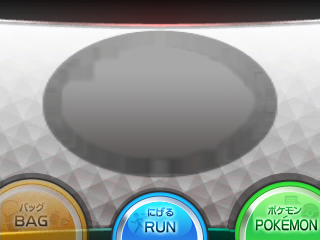
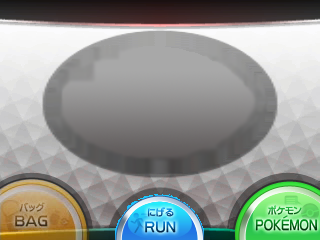
run button

Changed region(s): [[0.4062, 0.7875, 0.6562, 1.0], [0.3438, 0.8458, 0.4062, 1.0]]

diff --git a/src/PBO/Battle/NDS/ControlPanel/ControlPanel.xaml b/src/PBO/Battle/NDS/ControlPanel/ControlPanel.xaml
@@ -22,8 +22,8 @@
                     <ImageBrush ImageSource="/PBO;component/images/ControlPanel/MainMenu.png"/>
                 </Canvas.Background>
                 <b:GameButton Click="Fight_Click" Padding="2,1" Shape="M113,0 A113,70 180 1 1 113,140 A113,70 180 1 1 113,0 Z" Image="/PBO;component/images/ControlPanel/Fight.png" Width="226" Height="140" Canvas.Left="47" Canvas.Top="34"/>
-                <b:GameButton Click="Pokemons_Click" Shape="M1,63 A58,58 120 0 1 90,11 V63 Z" Image="/PBO;component/images/ControlPanel/Pokemon.png" Padding="1,1,0,0" Width="90" Height="63" Canvas.Bottom="0" Canvas.Right="0"/>
-                <Button Content="Run" Opacity="0.8" Click="Run_Click" Height="44" Width="76" Canvas.Bottom="0" Canvas.Left="110"/>
+                <b:GameButton Click="Pokemons_Click" Padding="1,1,0,0" Shape="M1,63 A58,58 120 0 1 90,11 V63 Z" Image="/PBO;component/images/ControlPanel/Pokemon.png" Width="90" Height="63" Canvas.Bottom="0" Canvas.Right="0"/>
+                <b:GameButton Click="Run_Click" Padding="1,1,1,0" Shape="M0,50 A49,49 180 0 1 98,50 Z" Image="/PBO;component/images/ControlPanel/Run.png" Height="50" Width="98" Canvas.Bottom="0" Canvas.Left="110"/>
             </Canvas>
         </TabItem>
         <TabItem>
